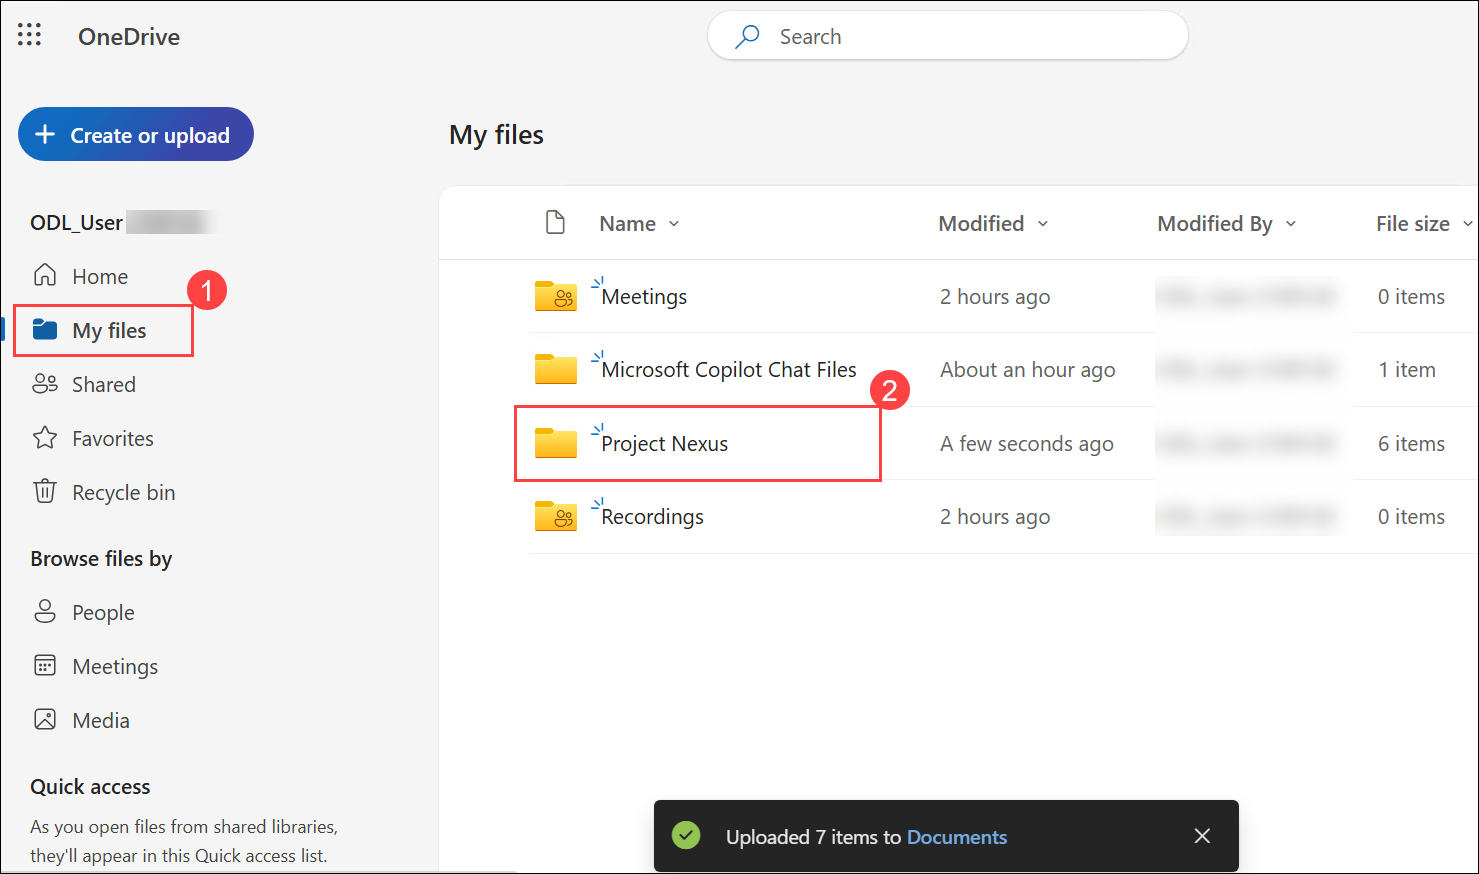
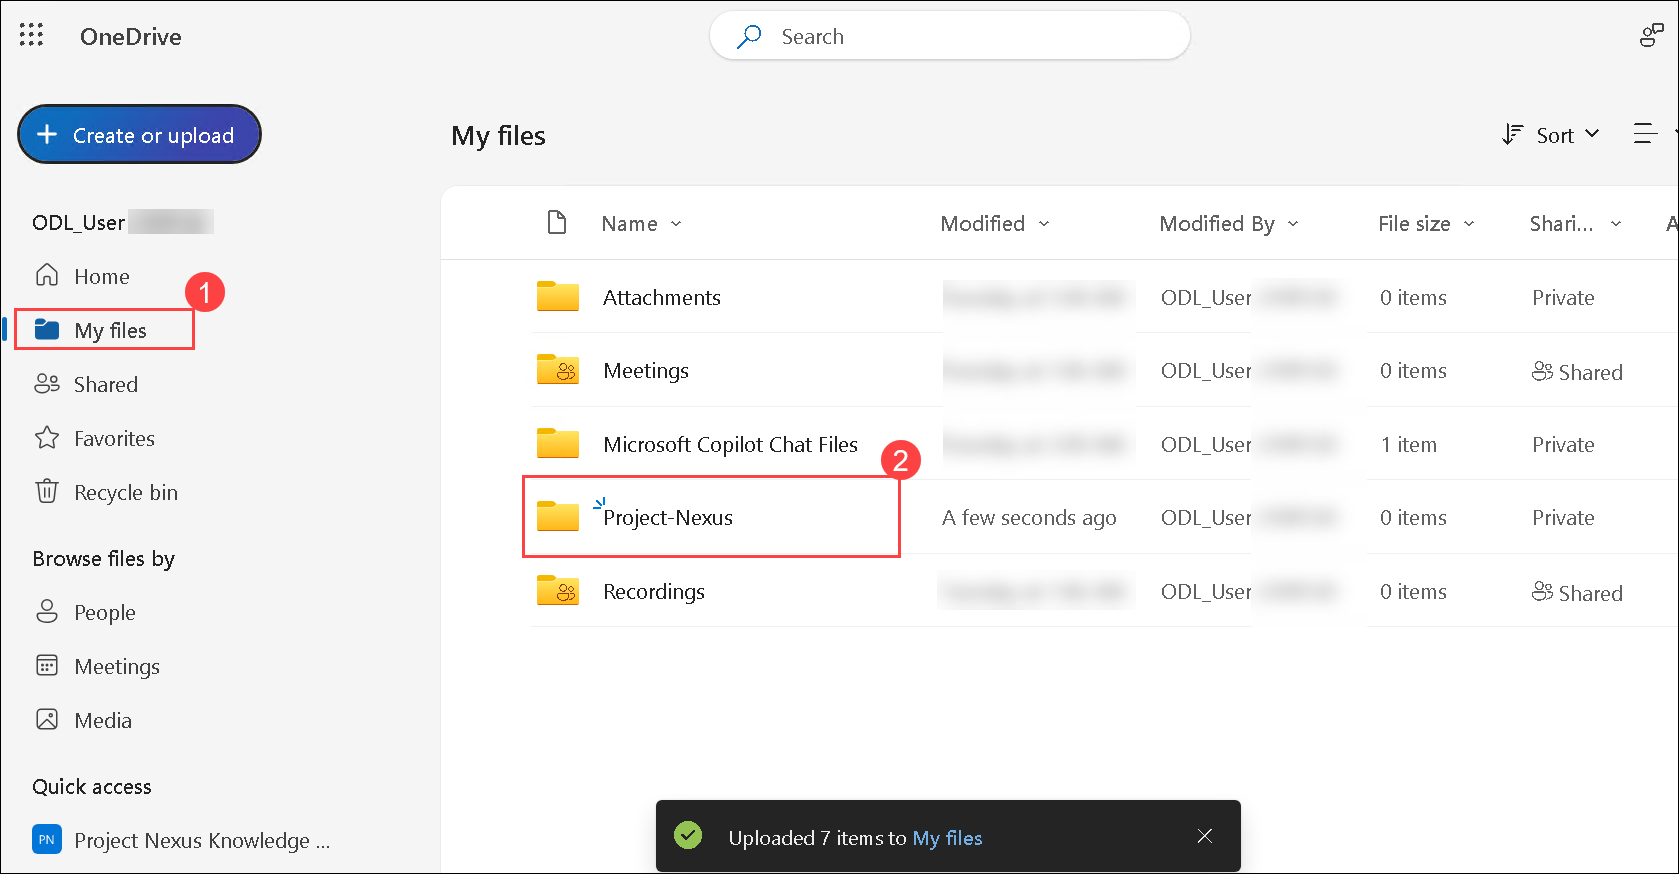
update

diff --git a/EX2.md b/EX2.md
@@ -36,7 +36,7 @@ In this task, you'll upload the Project Nexus folder from the local system to On
 
     ![](./media/ex2-p3t1p3.png)
 
-1. In the **Select folder to upload** window, navigate to **`C:\AllFiles` (1)**, select the **Project Nexus (2)** folder, and then click **Upload (3)**.
+1. In the **Select folder to upload** window, navigate to **`C:\AllFiles` (1)**, select the **Project-Nexus (2)** folder, and then click **Upload (3)**.
 
     ![](./media/ex2-p3t1p4.png)
 
@@ -44,7 +44,7 @@ In this task, you'll upload the Project Nexus folder from the local system to On
 
     ![](./media/ex2-p3t1p5.png)
 
-1. In **OneDrive**, select **My files (1)** from the left navigation pane and verify that the **Project Nexus (2)** folder has been successfully uploaded.
+1. In **OneDrive**, select **My files (1)** from the left navigation pane and verify that the **Project-Nexus (2)** folder has been successfully uploaded.
 
     ![](./media/ex2-p3t1p6.png)
 

diff --git a/EX4.md b/EX4.md
@@ -92,7 +92,7 @@ In this task, you will create a **Project Nexus Governance Advisor** Copilot age
 
 6. In the **Knowledge** section, add relevant Project Nexus documents from OneDrive (Adoption Report, Risk Log, Executive Notes, Change Plan, etc.).
 
-1. In the **Open** window, navigate to `C:\AllFiles\Project Nexus` **(1)**, select all the files in the folder **(2)**, and then click **Open (3)** to upload them.
+1. In the **Open** window, navigate to `C:\AllFiles\Project-Nexus` **(1)**, select all the files in the folder **(2)**, and then click **Open (3)** to upload them.
 
     ![](./media/ex4-p5t1p12.png)
 

diff --git a/EX5.md b/EX5.md
@@ -63,7 +63,7 @@ In this task, you will create a **SharePoint Communication site** that will act 
 
     ![](./media/ex5-p6t1p9.png)
 
-1. In the **Open** window, navigate to **C:\AllFiles\Project Nexus (1)**, select all the files in the folder **(2)**, and then click **Open (3)** to upload them.
+1. In the **Open** window, navigate to **C:\AllFiles\Project-Nexus (1)**, select all the files in the folder **(2)**, and then click **Open (3)** to upload them.
 
     ![](./media/ex5-p6t1p10.png)
 

diff --git a/EX1.md b/EX1.md
@@ -48,7 +48,7 @@ In this task, you'll open Microsoft 365 Copilot, upload the Project Nexus survey
 
     ![](./media/ex1-p2t1p7.png)
 
-1. Navigate to `C:\AllFiles\Project Nexus` **(1)** and select **Project_Nexus_survey_results.xlsx (2)** and then click on **Open (3)**.
+1. Navigate to `C:\AllFiles\Project-Nexus` **(1)** and select **Project_Nexus_survey_results.xlsx (2)** and then click on **Open (3)**.
 
     ![](./media/ex1-p2t1p8.png)
 
